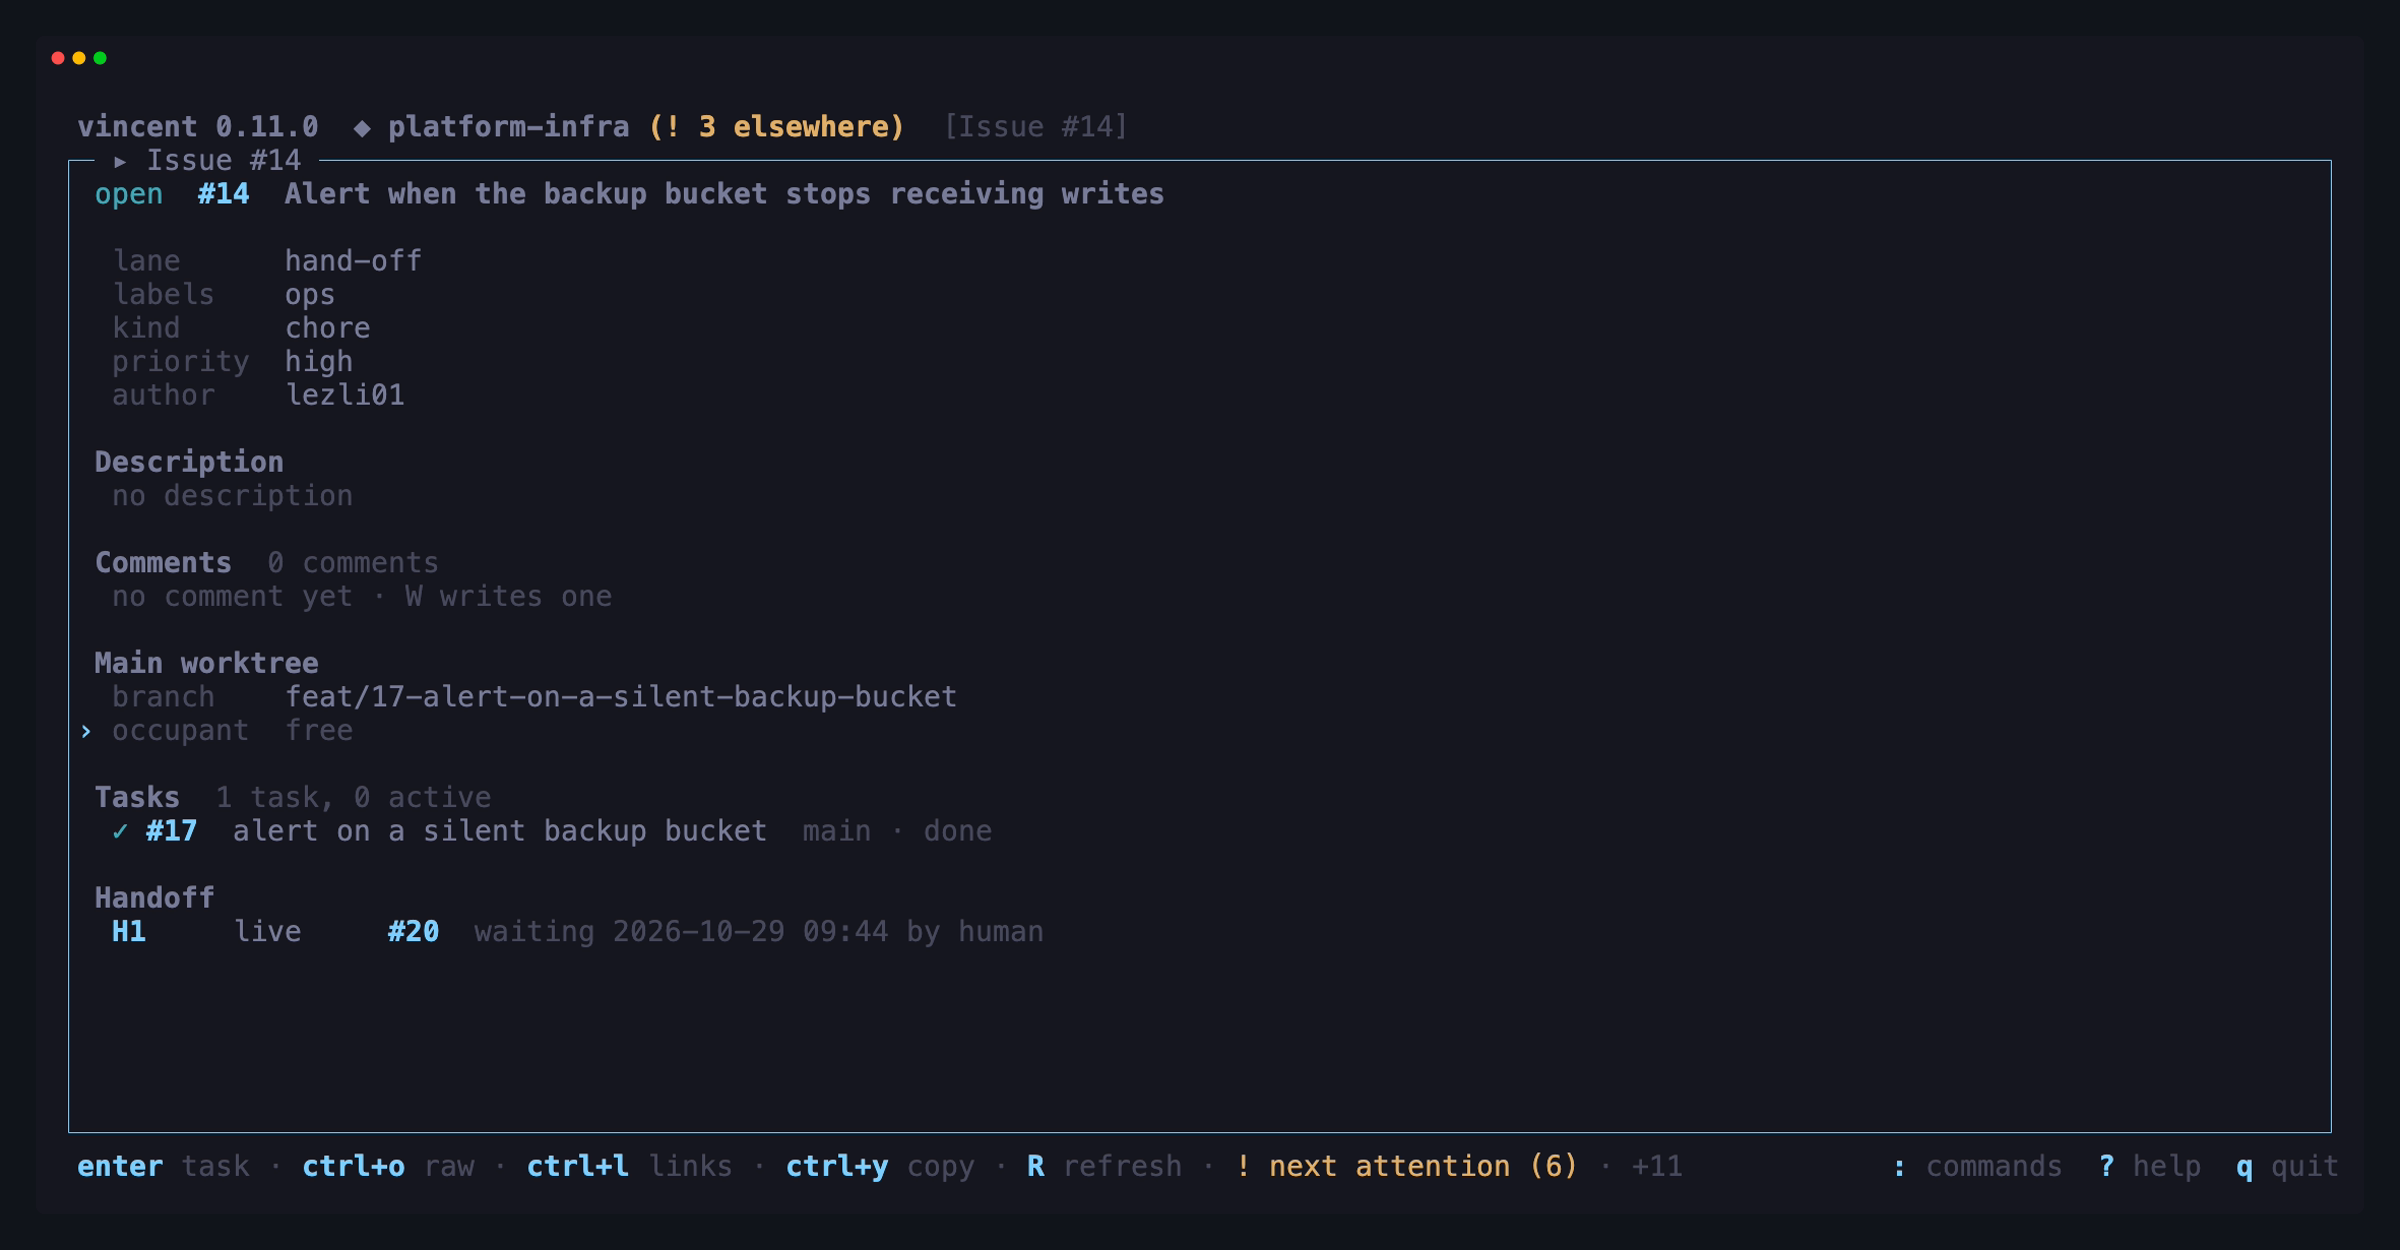
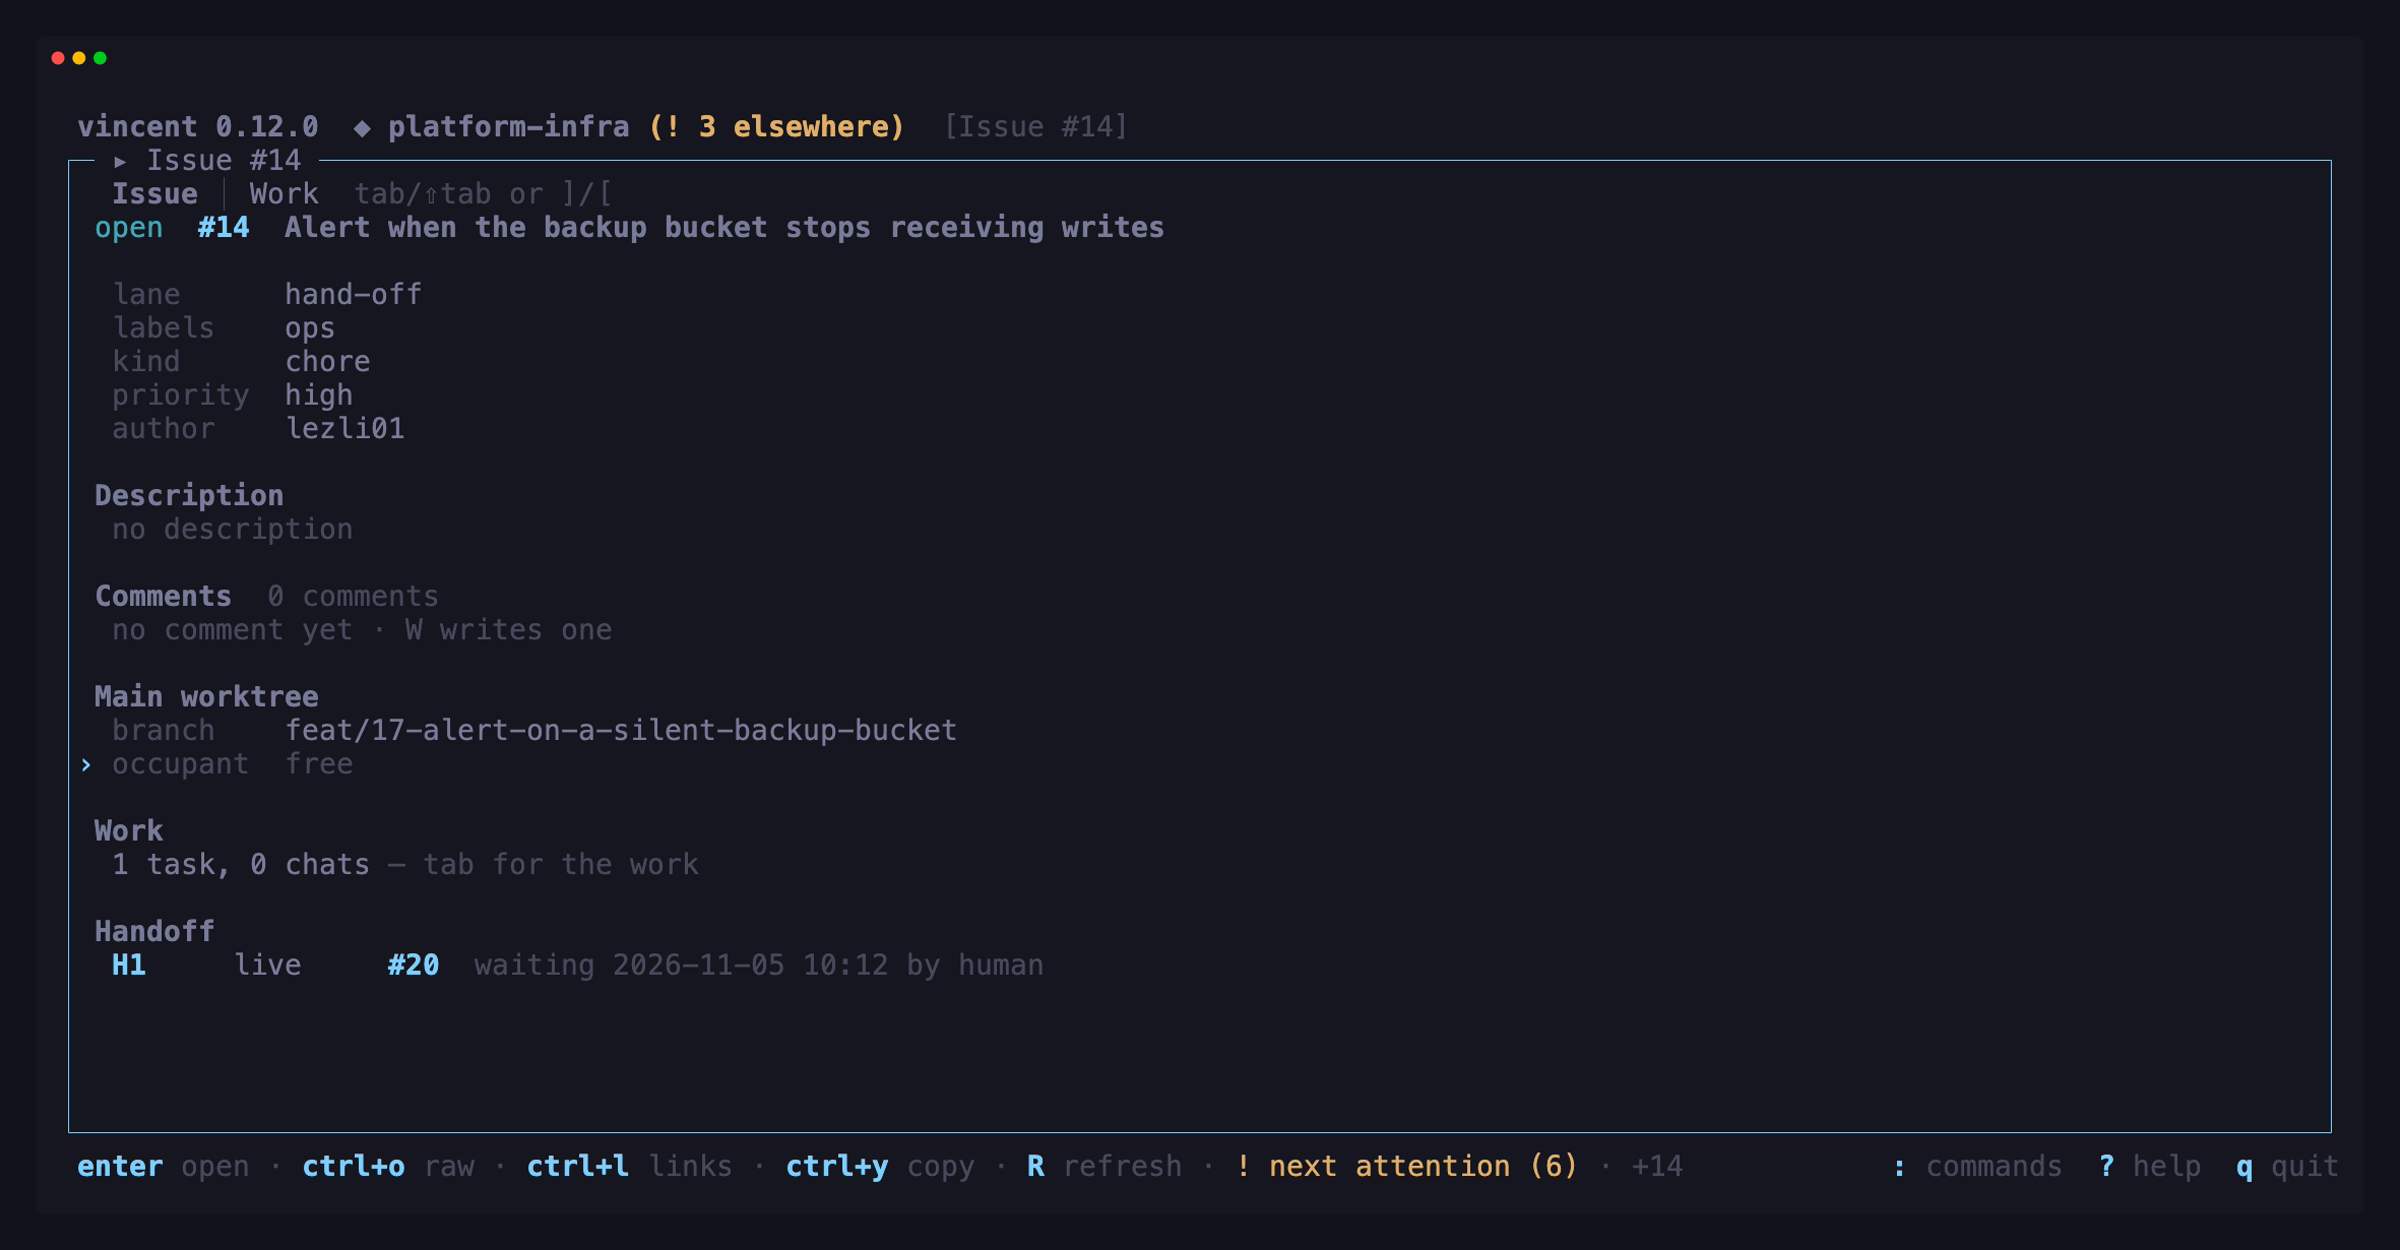
docs: seed issue chats and capture the issue Work tab
The screenshot seed opens two chats on "The eu-west DNS change broke the
status page" (one archived, one closed) before its task, and a closed chat
on the task before it is archived, so the issue stays in the hand-off lane.
A new tui-issue-work tape photographs the Work tab, referenced from the TUI
guide. tui-issue and tui-issue-handoff are recaptured for the Work line that
replaced the Issue tab's task list, and CLAUDE.md's seed counts now match
the script.

Changed region(s): [[0.0312, 0.1248, 0.5, 0.78]]

diff --git a/CLAUDE.md b/CLAUDE.md
@@ -237,11 +237,13 @@ exit 126 before running an assertion.
 the images under `docs/assets/tui-*.png`. It seeds a throwaway installation —
 its own config and data dirs, its own `$HOME` (so the skills and status-line
 rows are the seed's, not yours), seven git repos (one a GitHub project, answered
-by `cmd/fakegh`), a daemon, twenty-one tasks (a two-round fan-out and a loop
-among them, three archived, four started from an issue), eight chats (four
-live, two archived and two closed on a task) and twelve issues (nine local, two
-of them closed, and three imported from the fake GitHub with a mirrored
-thread, platform-infra's filling every lane) covering every state — and photographs the running TUI with VHS
+by `cmd/fakegh`), a daemon, twenty-six tasks (a two-round fan-out with three
+lanes, a loop and a handoff's task among them, three archived, eight started from an
+issue), eleven chats (four live, three archived — one of them on an issue —
+one closed on an issue and three closed on a task) and sixteen issues
+(thirteen local, three of them closed, and three imported from the fake GitHub
+with a mirrored thread, platform-infra's filling every lane) covering every
+state — and photographs the running TUI with VHS
 (`brew install vhs`).
 Documentation never draws a screen: no ASCII mock-ups of panels, no hand-written
 "example" frames. If a panel changed, re-run the script:

diff --git a/docs/guides/tui.md b/docs/guides/tui.md
@@ -2103,6 +2103,11 @@ on the Work line also switches to the **Work** tab, which lists:
   off into one, each with its state glyph and its state (`closed`,
   `archived`, `handed off → #T`).
 
+![The Work tab of the issue "The eu-west DNS change broke the status page":
+Tasks lists its one task, archived and marked `main`; Chats lists a closed chat
+opened on that task (`on task #12 · closed`) and the two chats opened on the
+issue, one closed and one archived](../assets/tui-issue-work.png)
+
 `enter` on a task opens its workspace and on a chat opens the chat; an
 archived or finished one opens read-only, and `esc` comes back to the issue
 on the tab you left. Opening another issue starts it on the Issue tab.
@@ -2110,8 +2115,8 @@ on the tab you left. Opening another issue starts it on the Issue tab.
 ![The detail of an issue imported from acme/web#142: its lane, labels,
 kind, priority and author, the description rendered as Markdown, two comments
 marked `· github`, the Main worktree section naming the branch and the task
-holding it at its gate, that task marked `main`, and the Source
-section](../assets/tui-issue.png)
+holding it at its gate, the Work line counting that task and no chats, and
+the Source section](../assets/tui-issue.png)
 
 | Key | Does |
 |---|---|
